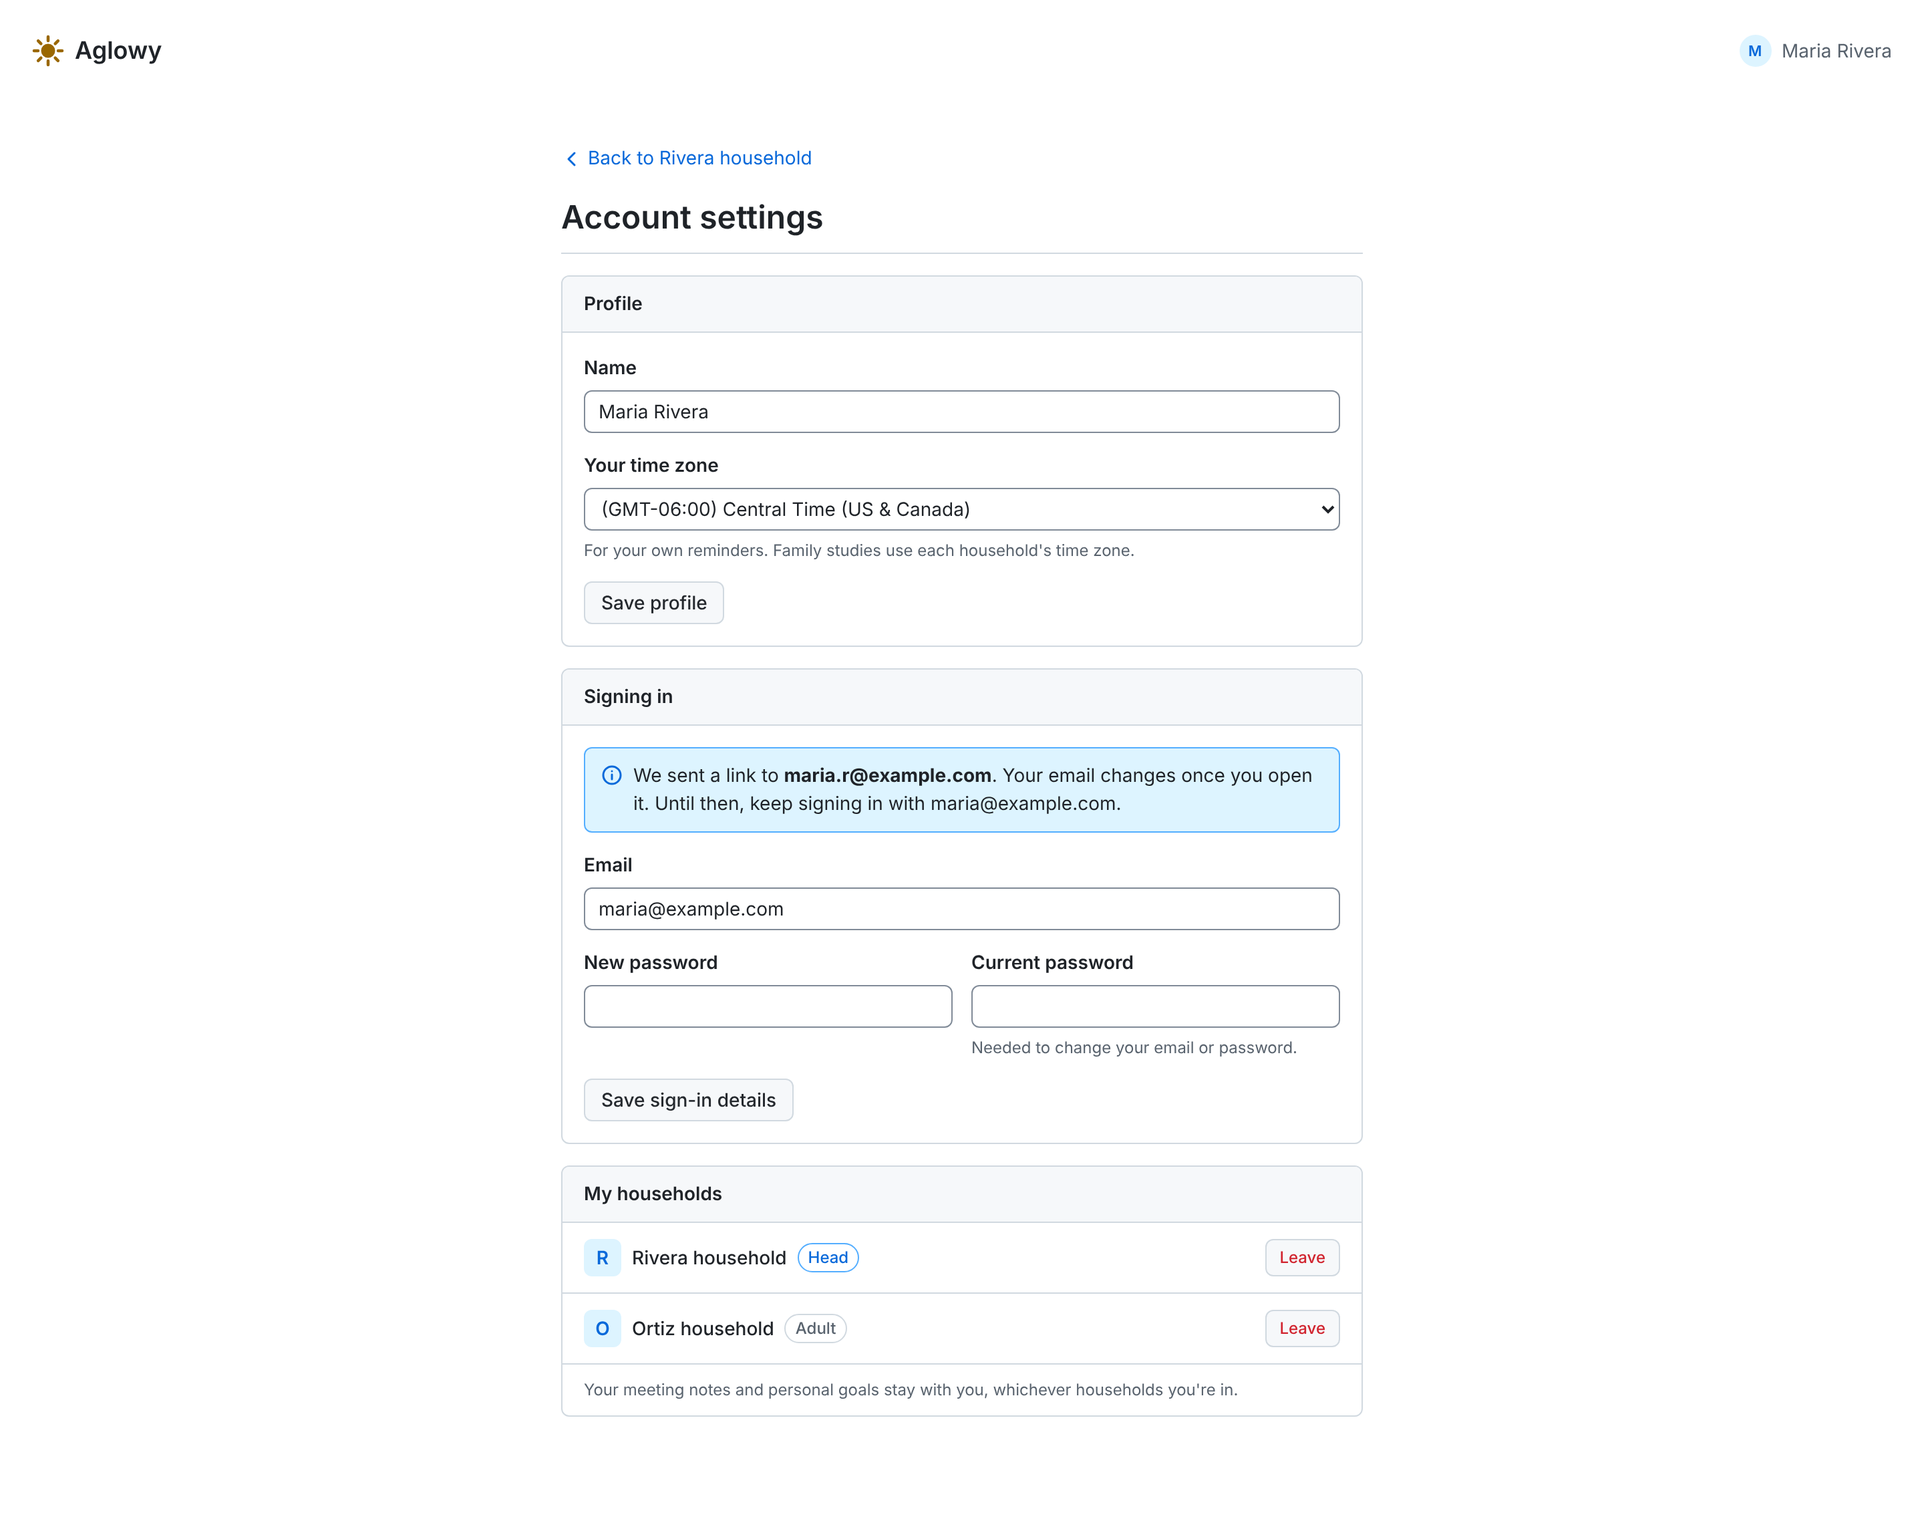
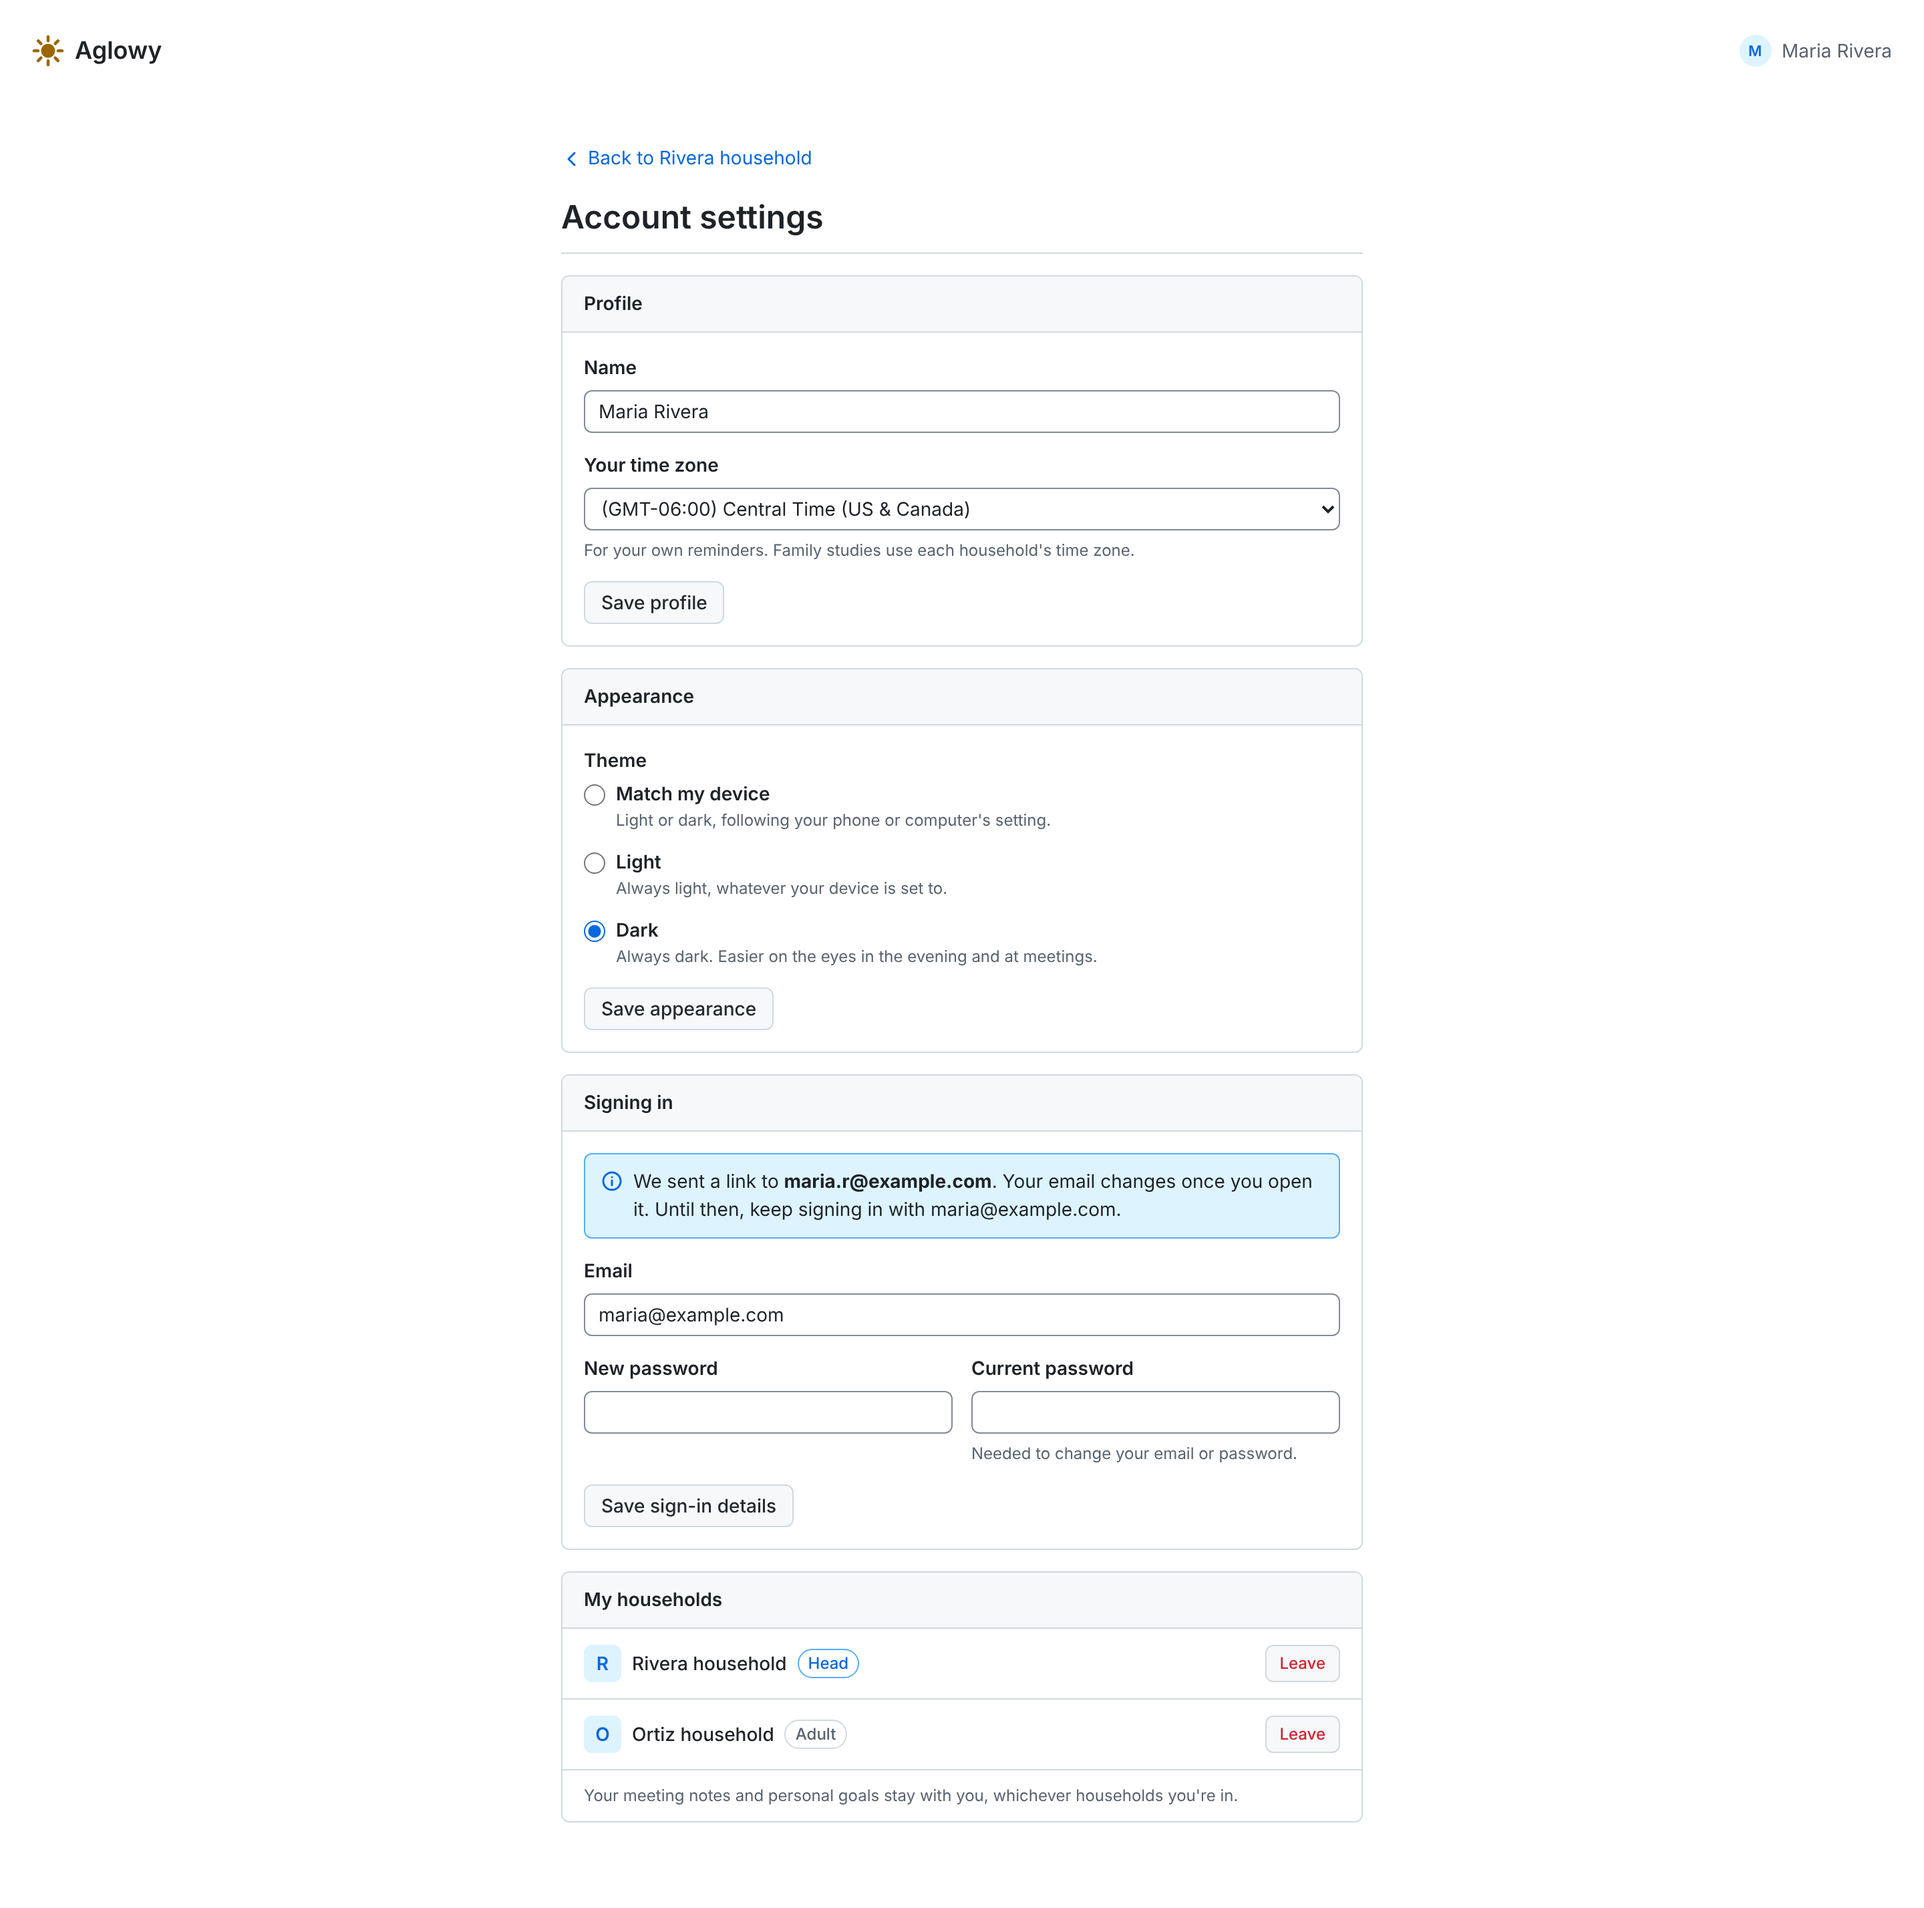
Design: let each person choose light, dark or match-my-device
Adds an Appearance section to account settings, stored on users.appearance
and read by one color_mode helper in the household, focused and application
layouts. The meeting helper stays dark; signed-out pages stay auto.

Claude-Session: https://claude.ai/code/session_0134z7YhxhHiNN5ED15LNroy

diff --git a/docs/design/app-shell.md b/docs/design/app-shell.md
@@ -8,6 +8,8 @@ the **UI-01** epic.
 The approved mockup has twelve frames: desktop light and dark, the switcher
 open, a child's view, an empty household, phone home, menu and dark, and the
 signed-out pages (sign in, create an account, sign in dark, phone sign in).
+A thirteenth frame shows account settings with the Dark appearance chosen
+(see Theming and appearance).
 Exported frames go in `docs/design/app-shell/` (one PNG per frame, named as
 below). When a story's screenshot and a frame disagree, the frame wins unless
 this document says otherwise.
@@ -26,6 +28,7 @@ this document says otherwise.
 | Create an account | `sign-up.png` |
 | Sign in · dark | `sign-in-dark.png` |
 | Phone · sign in | `phone-sign-in.png` |
+| Account settings · dark appearance chosen | `account-settings-dark.png` |
 
 ## Two layouts
 
@@ -35,9 +38,63 @@ this document says otherwise.
 | `meeting_helper` | The meeting helper's pages for a child with the helper on (`docs/design/meeting-helper.md`) | Full screen, always dark, no sidebar |
 | `focused` | Pages outside a household: sign in, password reset, confirmation, sign up, the household chooser, new household | The Aglowy mark at the top left, then one centred column. No sidebar, because there is no household to navigate |
 
-Both keep the `<body>` theming attributes from `CLAUDE.md`
-(`data-color-mode="auto" data-light-theme="light" data-dark-theme="dark"`)
-and `lang` on `<html>`.
+Every layout keeps `lang` on `<html>` and the `<body>` theming attributes
+described next.
+
+## Theming and appearance
+
+Every layout sets the theme on `<body>`:
+`data-color-mode="<%= color_mode %>" data-light-theme="light" data-dark-theme="dark"`.
+Primer's components and primitives follow `data-color-mode`, so nothing else
+changes when it does.
+
+- **The mode is the signed-in person's choice.** Account settings has an
+  Appearance section, between Profile and Signing in (frames
+  `docs/design/invitations/account-settings.png`, Match my device, and
+  `account-settings-dark.png`, Dark). It holds a radio group "Theme" and a
+  "Save appearance" button:
+
+  | Choice | Value | Caption |
+  | --- | --- | --- |
+  | Match my device (the default) | `auto` | Light or dark, following your phone or computer's setting. |
+  | Light | `light` | Always light, whatever your device is set to. |
+  | Dark | `dark` | Always dark. Easier on the eyes in the evening and at meetings. |
+
+- **It's stored on the person.** `users.appearance`: string, not null,
+  default `"auto"`, with a check constraint allowing only `auto`, `light` and
+  `dark`. It belongs to `User`, like the time zone, so it follows the person
+  into every household and onto every device they sign in on. It isn't a
+  household setting, and a head can't set it for anyone else.
+- **One helper reads it.** `ApplicationHelper#color_mode` returns
+  `Current.user&.appearance || "auto"`. The `household`, `focused` and
+  `application` layouts use it. Signed out there's no person, so sign in, sign
+  up and the password pages stay `auto`.
+- **Two layouts don't use it.** `meeting_helper` stays `dark` whatever the
+  child chose (`docs/design/meeting-helper.md`). `design_system`, a
+  development page, stays `auto`.
+- **Saving.** `PATCH /account/appearance`
+  (`Accounts::AppearancesController#update`, from
+  `resource :appearance, only: :update, module: :accounts` inside
+  `resource :account`). It authorizes `@user` with `UserPolicy#update?`, saves
+  with `@user.update(appearance:)` and redirects to account settings with the
+  notice "Your appearance is saved.", keeping `return_to`. The form is
+  `Accounts::AppearanceForm`, a Primer form class with `radio_button_group`.
+  The redirect renders a new `<body>`, so the page changes theme as soon as
+  it's saved. There's no live preview and no JavaScript.
+
+### Traps
+
+- **Never style by `@media (prefers-color-scheme)`** or read
+  `matchMedia("(prefers-color-scheme: dark)")` in JavaScript. They report the
+  device, not the person's choice, so someone who chose Light on a dark phone
+  would get dark pieces on a light page. Use Primer primitives, which follow
+  `data-color-mode` (this is why `components/_lexxy.scss` maps Lexxy's colours
+  to primitives).
+- **The database is the only store.** No cookie or `localStorage` copy, so the
+  choice is the same on every device and signed-out pages stay `auto`.
+- **Emails don't use it.** They're read in a mail app with its own theme.
+- **Impersonation** shows the impersonated person's choice. That's expected:
+  it's their account.
 
 ## The root page and signing in
 

diff --git a/docs/design/invitations.md b/docs/design/invitations.md
@@ -101,6 +101,7 @@ At `/account` (outside any household, focused layout, frames `account-settings.p
 | Section | Route | Fields | Rules |
 | --- | --- | --- | --- |
 | Profile | `GET/PATCH /account` (`AccountsController`) | Name, your time zone | Updates `User`. The time zone is for personal reminders; studies use the household's |
+| Appearance | `PATCH /account/appearance` (`Accounts::AppearancesController`) | Theme: Match my device, Light or Dark | Updates `users.appearance`, which sets `data-color-mode` on every page the person sees. See `docs/design/app-shell.md`, Theming and appearance |
 | Signing in | `GET/PATCH /account/sign_in` (`Accounts::SignInsController`) | Email, new password, current password | `identity.update_with_password`. An email change is reconfirmed by Devise (`reconfirmable`): a Banner says where the link went and that the old email works until then. Children see their username read-only and only the password fields |
 | My households | `DELETE /account/memberships/:id` (`Accounts::MembershipsController`) | Each household with the person's role and Leave | Loaded through `Current.user.memberships.active`. Leave opens a Dialog explaining what happens, then calls `membership.deactivate`. The last head is refused: "Make someone else a head before you leave." Children don't see Leave, and the controller refuses them |
 

diff --git a/CLAUDE.md b/CLAUDE.md
@@ -182,10 +182,15 @@ households or roles. The non-negotiables:
   `@primer/primitives`, `@use`d from `node_modules` in `application.scss`
   (load path set in `config/initializers/dartsass.rb`). JS is
   `import "@primer/view-components"` in `app/javascript/application.js`.
-- Theming via `data-color-mode="auto" data-light-theme="light"
+- Theming via `data-color-mode="<%= color_mode %>" data-light-theme="light"
   data-dark-theme="dark"` on `<body>`. Any new layout must include these.
-  The one exception is the `meeting_helper` layout, which is always
-  `data-color-mode="dark"` (`docs/design/meeting-helper.md`).
+  `color_mode` is the signed-in person's Appearance choice
+  (`users.appearance`: `auto`, `light` or `dark`) and `auto` when signed out
+  (`docs/design/app-shell.md`, Theming and appearance). The exceptions are the
+  `meeting_helper` layout, which is always `data-color-mode="dark"`
+  (`docs/design/meeting-helper.md`), and the development-only `design_system`
+  layout, which stays `auto`. Never style by `prefers-color-scheme`: it reads
+  the device, not the person's choice.
 - **Design tokens are Primer primitives** (CSS custom properties like
   `var(--bgColor-default)`, `var(--base-size-16)`, `var(--fgColor-muted)`).
   Never use magic numbers — reference a primitive.
